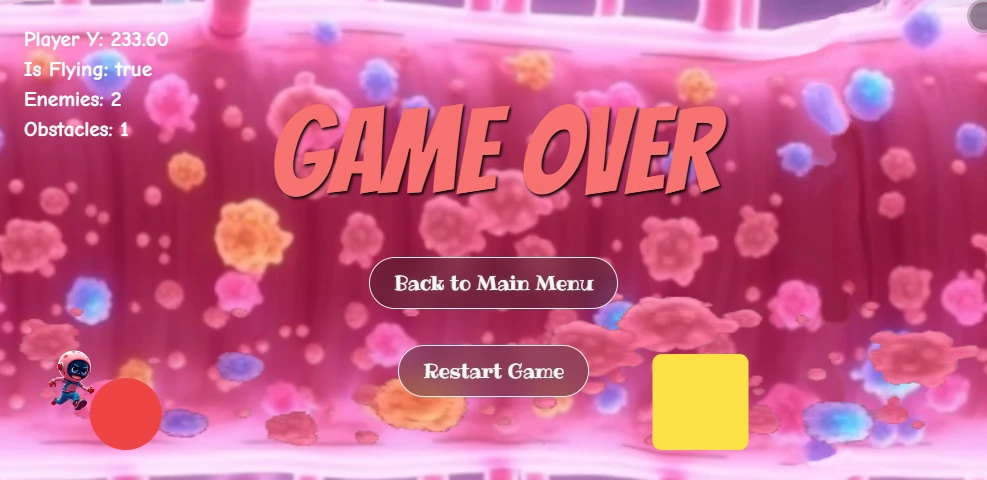
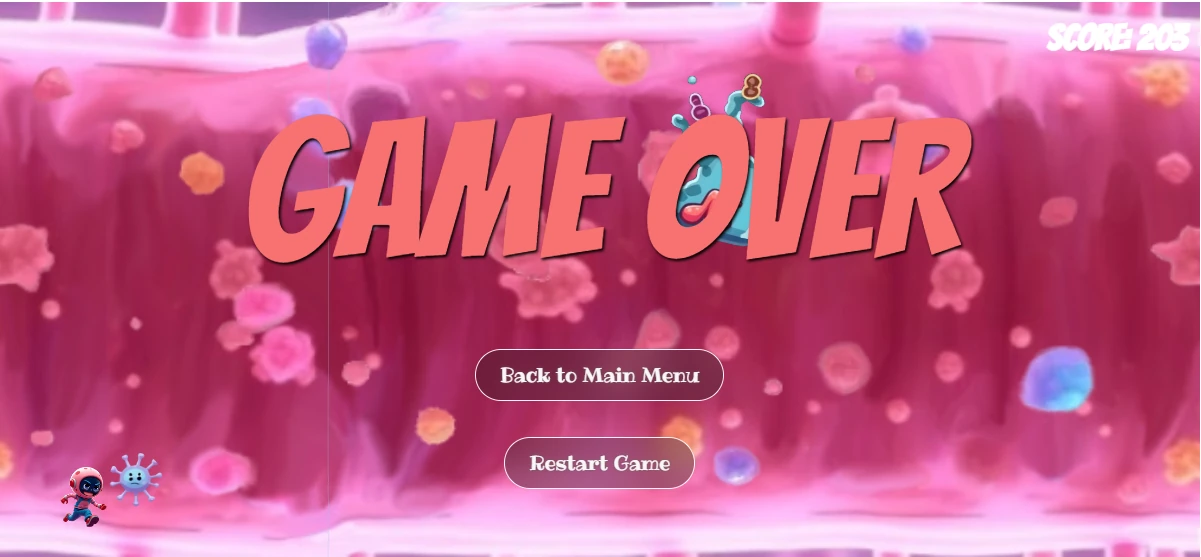
feature: - updated bg images - fixed obstacles layout shift - fixed main menu screen

diff --git a/src/components/GameUI.vue b/src/components/GameUI.vue
@@ -31,6 +31,7 @@ import {
 import Background from '@/components/atoms/Background.vue'
 import { ENEMY_TYPES, OBSTACLE_TYPES, TOTAL_OBSTACLES_TYPES } from '@/utils/enums.ts'
 import Score from '@/components/atoms/Score.vue'
+import { v4 } from 'uuid'
 
 // Match State
 const { isGameOver, setIsGameOver, restartGame } = useMatch()
@@ -91,10 +92,10 @@ const updateGame = (deltaTime: number) => {
 
   // Update Enemies
   enemiesList.value.forEach(enemy => {
-    enemy.x -= SCROLL_SPEED_FOREGROUND * 1.1 * speed.value // Adjust speed based on game speed
+    enemy.x -= SCROLL_SPEED_FOREGROUND * 1.2 * speed.value // Adjust speed based on game speed
   })
   enemiesList.value = enemiesList.value.filter(entity => {
-    const didDodgeEntity = entity.x + entity.width < 0
+    const didDodgeEntity = entity.x + entity.width <= 0
     if (didDodgeEntity) {
       enemiesDodgedTotal++
     }
@@ -106,7 +107,7 @@ const updateGame = (deltaTime: number) => {
     obstacle.x -= SCROLL_SPEED_FOREGROUND * speed.value // Adjust speed based on game speed
   })
   obstaclesList.value = obstaclesList.value.filter(entity => {
-    const didDodgeEntity = entity.x + entity.width < 0
+    const didDodgeEntity = entity.x + entity.width <= 0
     if (didDodgeEntity) {
       obstaclesDodgedTotal++
     }
@@ -125,7 +126,7 @@ const updateGame = (deltaTime: number) => {
     const enemyDimensions = ENEMY_TYPES[type]
 
     const enemy = {
-      id: Date.now() + Math.random(),
+      id: v4(),
       x: GAME_WIDTH + Math.random() * 200, // Spawn just off-screen
       y: Math.floor(Math.random() * MAX_ENEMY_Y),
       width: enemyDimensions.width,
@@ -138,18 +139,16 @@ const updateGame = (deltaTime: number) => {
 
   // Spawn Obstacles
   obstacleSpawnTimer += deltaTime
-  if (
-    obstacleSpawnTimer > OBSTACLE_SPAWN_INTERVAL - speed.value * 50 &&
-    obstaclesList.value.length < maxObstaclesOnScreen.value
-  ) {
+  if (obstacleSpawnTimer > OBSTACLE_SPAWN_INTERVAL && obstaclesList.value.length <= maxObstaclesOnScreen.value) {
     const unclampedRandomInt = Math.floor(Math.random() * TOTAL_OBSTACLES_TYPES) + 1
     const type = unclampedRandomInt.clamp(0, TOTAL_ENEMY_TYPES)
     const obstacleDimensions = OBSTACLE_TYPES[type]
     const MAX_OBSTACLE_Y = GROUND_Y - obstacleDimensions.height
+    const yPos = Math.floor(Math.random() * MAX_OBSTACLE_Y)
     const obstacle = {
-      id: Date.now() + Math.random(),
-      x: GAME_WIDTH + Math.floor(Math.random() * 300), // Spawn just off-screen
-      y: Math.floor(Math.random() * MAX_OBSTACLE_Y),
+      id: v4(),
+      x: GAME_WIDTH + 300 + Math.floor(Math.random() * 300), // Spawn just off-screen
+      y: yPos,
       width: obstacleDimensions.width,
       height: obstacleDimensions.height,
       type, // Random type for variety
@@ -177,6 +176,11 @@ const updateGame = (deltaTime: number) => {
       setIsGameOver(true)
     }
   })
+
+  G.obstaclesDodgedTotal.value = obstaclesDodgedTotal
+  G.enemiesDodgedTotal.value = enemiesDodgedTotal
+  G.timePlayed.value = timePlayed.value
+  G.speed.value = speed.value
 }
 
 // Initialize Game Loop
@@ -212,12 +216,6 @@ onMounted(() => {})
 
 onUnmounted(() => {
   cleanup()
-})
-const gameWidth = computed(() => {
-  return GAME_WIDTH
-})
-const gameHeight = computed(() => {
-  return GAME_WIDTH
 })
 </script>
 
@@ -257,19 +255,11 @@ const gameHeight = computed(() => {
       //div Is Flying: {{ isFlying }}
       //div Enemies: {{ enemiesList.length }}
       //div Obstacles: {{ obstaclesList.length }}
-    Score(
-      :obstaclesTotal="obstaclesDodgedTotal"
-      :enemiesTotal="enemiesDodgedTotal"
-      :time="timePlayed"
-      :speed="speed"
-    )
+    Score
 </template>
 
 <style scoped lang="sass">
 .game-container
-  width: v-bind(gameWidth)
-  height: v-bind(gameHeight)
-  background-color: #87CEEB
   margin: 0 auto
 
   .background-layer

diff --git a/src/components/MainMenu.vue b/src/components/MainMenu.vue
@@ -4,7 +4,7 @@ import router from '@/router'
 // import useAssets from '@/use/useAssets.ts'
 import useMatch from '@/use/useMatch.ts'
 import useUser from '@/use/useUser.ts'
-import { onMounted, onUnmounted, ref } from 'vue'
+import { computed, onMounted, onUnmounted, ref } from 'vue'
 import { useI18n } from 'vue-i18n'
 import OptionsModal from '@/components/molecules/OptionsModal.vue'
 import XButton from '@/components/atoms/XButton.vue'
@@ -36,9 +36,9 @@ onUnmounted(() => {})
 
 <template lang="pug">
   div.fixed.top-0.left-0.w-full.h-full.relative
-    img.bg-img.fixed.top-0.left-0.bg-repeat-x.bg-contain(class="z-[-20]" src="/images/bg/jgj-main-menu_655x320.jpg" alt="Main Menu Background")
-    img.fixed.top-0.left-0.ml-2.mt-2(class="w-[20%] z-[10]" src="/images/logo/logo_256x256.webp" alt="Logo")
-    div.flex.w-full.my-3.mt-1
+    img.bg-img.absolute.top-0.left-0.bg-repeat-x.bg-contain(class="z-[-20]" src="/images/bg/jgj-main-menu_655x320.jpg" alt="Main Menu Background")
+    img.absolute.top-0.left-0.ml-2.mt-2(class="w-[20%] z-[10]" src="/images/logo/logo_256x256.webp" alt="Logo")
+    div.flex.w-full.my-3.mt-1(class="translate-y-[-50%] absolute top-1/2")
       div.mx-auto
         div.flex.justify-center
           XButton.with-bg.mt-3(

diff --git a/src/components/atoms/Background.vue b/src/components/atoms/Background.vue
@@ -13,20 +13,20 @@ const bgMidOffset = ref(`${GROUND_OFFSET}px`)
     src="/images/bg/bg-far_607x324.jpg" alt="Far Background"
   )
   img.background-layer.absolute.top-0.left-0.w-full.h-full.z-0(
-    :style="{ transform: `translate3d(${bgFarX2}px, 0, 0)` }"
+    :style="{ transform: `translate3d(${bgFarX2}px, 0, 0) scaleX(101%)` }"
     src="/images/bg/bg-far_607x324.jpg" alt="Far Background"
   )
 
   // Mid Background (faster than far)
   img.background-layer.bg-mid.absolute.left-0.w-full.z-10.bg-contain(
     :style="{ transform: `translate3d(${bgMidX1}px, 0, 0)` }"
-    class="h-1/3 max-h-1/3"
-    src="/images/bg/bg-mid_418x116.webp" alt="Mid Background"
+    class="h-full"
+    src="/images/bg/bg-mid_607x324.webp" alt="Mid Background"
   )
   img.background-layer.bg-mid.absolute.left-0.w-full.z-10.bg-contain(
     :style="{ transform: `translate3d(${bgMidX2}px, 0, 0)` }"
-    class="h-1/3 max-h-1/3"
-    src="/images/bg/bg-mid_418x116.webp" alt="Mid Background"
+    class="h-full"
+    src="/images/bg/bg-mid_607x324.webp" alt="Mid Background"
   )
 
   // Foreground (main game speed - ground)

diff --git a/src/components/GameOverScreen.vue b/src/components/GameOverScreen.vue
@@ -3,6 +3,7 @@ import router from '@/router'
 import { useRoute } from 'vue-router'
 import CenteredMenuButton from '@/components/molecules/CenteredMenuButton.vue'
 import useInput from '@/use/useInput.ts'
+import Score from '@/components/atoms/Score.vue'
 
 const emit = defineEmits(['restart'])
 const route = useRoute()
@@ -24,7 +25,12 @@ const backToMainMenu = () => {
 <template>
   <div class="battle-over-screen fixed top-0 left-0 w-full h-full z-[101]">
     <div class="flex flex-col justify-center items-center h-full flex-wrap">
-      <h1 class="bangers text-red-400 [text-shadow:1px_1px_2px_#000000] lg:text-[8rem] text-[5rem] shrink-0 text-center">GAME OVER</h1>
+      <h1
+        class="bangers text-red-400 [text-shadow:1px_1px_2px_#000000] lg:text-[8rem] text-[5rem] shrink-0 text-center"
+      >
+        GAME OVER
+      </h1>
+      <Score position="relative" />
       <CenteredMenuButton
         :on="backToMainMenu"
         text="backToMainMenu"

diff --git a/src/components/atoms/Score.vue b/src/components/atoms/Score.vue
@@ -2,20 +2,22 @@
 import { computed } from 'vue'
 
 const props = defineProps<{
-  obstaclesTotal: number
-  enemiesTotal: number
-  time: number
-  speed: number
+  position?: string
 }>()
 
 const score = computed(() => {
-  return props.obstaclesTotal * 2 + props.enemiesTotal + Math.floor((props.time / 1000) * props.speed)
+  return (
+    G.obstaclesDodgedTotal.value * 2 +
+    G.enemiesDodgedTotal.value +
+    Math.floor((G.timePlayed.value / 1000) * G.speed.value)
+  )
 })
 </script>
 
 <template lang="pug">
-  div.fixed.top-2.right-2.flex.items-center.justify-center(
+  div.flex.items-center.justify-center(
     class="z-[100]"
+    :class="{ 'absolute top-2 right-2': position !== 'relative' }"
   )
     div.bangers.text-2xl.text-white.font-bold
       span.score {{ $t('score') }}: {{ score }}

diff --git a/src/global.ts b/src/global.ts
@@ -1,4 +1,4 @@
-import type { Ref } from 'vue'
+import { type ComputedRef, ref, type Ref } from 'vue'
 
 declare global {
   interface Window {
@@ -7,8 +7,18 @@ declare global {
       route: Ref<any>
       // isGameOver: Ref<boolean>
       // isStartingGame: Ref<boolean>
+      obstaclesDodgedTotal: Ref<number>
+      enemiesDodgedTotal: Ref<number>
+      timePlayed: Ref<number>
+      speed: ComputedRef<number>
     }
   }
 }
 
-window.G = window.G || {}
+window.G = window.G || {
+  obstaclesDodgedTotal: ref(0),
+  enemiesDodgedTotal: ref(0),
+  timePlayed: ref(0),
+  speed: ref(0),
+}
+console.log('window.G: ', window.G)

diff --git a/src/utils/constants.ts b/src/utils/constants.ts
@@ -43,6 +43,6 @@ export const ENEMY_HEIGHT: number = 48
 export const OBSTACLE_WIDTH: number = 64
 export const OBSTACLE_HEIGHT: number = 64
 export const ENEMY_SPAWN_INTERVAL: number = 2000 // ms
-export const OBSTACLE_SPAWN_INTERVAL: number = 2715 // ms
-export const MAX_ENEMIES_ON_SCREEN: number = 3
-export const MAX_OBSTACLES_ON_SCREEN: number = 2
+export const OBSTACLE_SPAWN_INTERVAL: number = 3000 // ms
+export const MAX_ENEMIES_ON_SCREEN: number = 4
+export const MAX_OBSTACLES_ON_SCREEN: number = 1

diff --git a/src/App.vue b/src/App.vue
@@ -1,6 +1,6 @@
 <template lang="pug">
   div.flex.flex-col.h-screen.w-screen(id="main-app" class="sm:h-full")
-    main.game.relative
+    main.game.relative.overflow-hidden(:style="{ width: `${GAME_WIDTH}px`, height: `${GAME_HEIGHT}px` }")
       router-view
       OptionsModal(
         :show="isOptionsModalOpen"
@@ -37,6 +37,9 @@ body
   min-width: 320px
   min-height: 100vh
   overflow: hidden
+
+.game
+  margin: 0 auto
 
 .rib
   & *, &

diff --git a/src/components/atoms/Obstacle.vue b/src/components/atoms/Obstacle.vue
@@ -1,5 +1,5 @@
 <script setup lang="ts">
-import { computed, defineProps } from 'vue'
+import { computed, defineProps, watch } from 'vue'
 import { prependBaseUrl } from '@/utils/function'
 
 interface ObstacleProps {

diff --git a/TODO.md b/TODO.md
@@ -9,12 +9,16 @@
   - [x] Game Loop
   - [x] Game Over Logic
   - [x] Game Restart Logic
-  - [ ] Score System
+  - [x] Score System
+  - [ ] Pickup Items
+    - [ ] White Blood Cells
+    - [ ] Power-ups
 - [ ] Assets
   - [x] Player Placeholder image
   - [x] Background Placeholder image
-  - [ ] Enemy Placeholder image
-  - [ ] Obstacle Placeholder image
+  - [x] Enemy Placeholder image
+  - [x] Obstacle Placeholder image
+  - [ ] White Blood Cells
 
 - [x] Game Settings
   - [x] Game Sounds

diff --git a/README.md b/README.md
@@ -1,4 +1,4 @@
-#![Endless Runner banner](https://github.com/konstantinsteinmiller/endless-runner/blob/master/public/images/logo/logo_256x256.webp)
+![Endless Runner banner](https://github.com/konstantinsteinmiller/endless-runner/blob/master/public/images/logo/logo_256x256.webp)
 
 # Endless Runner
 
